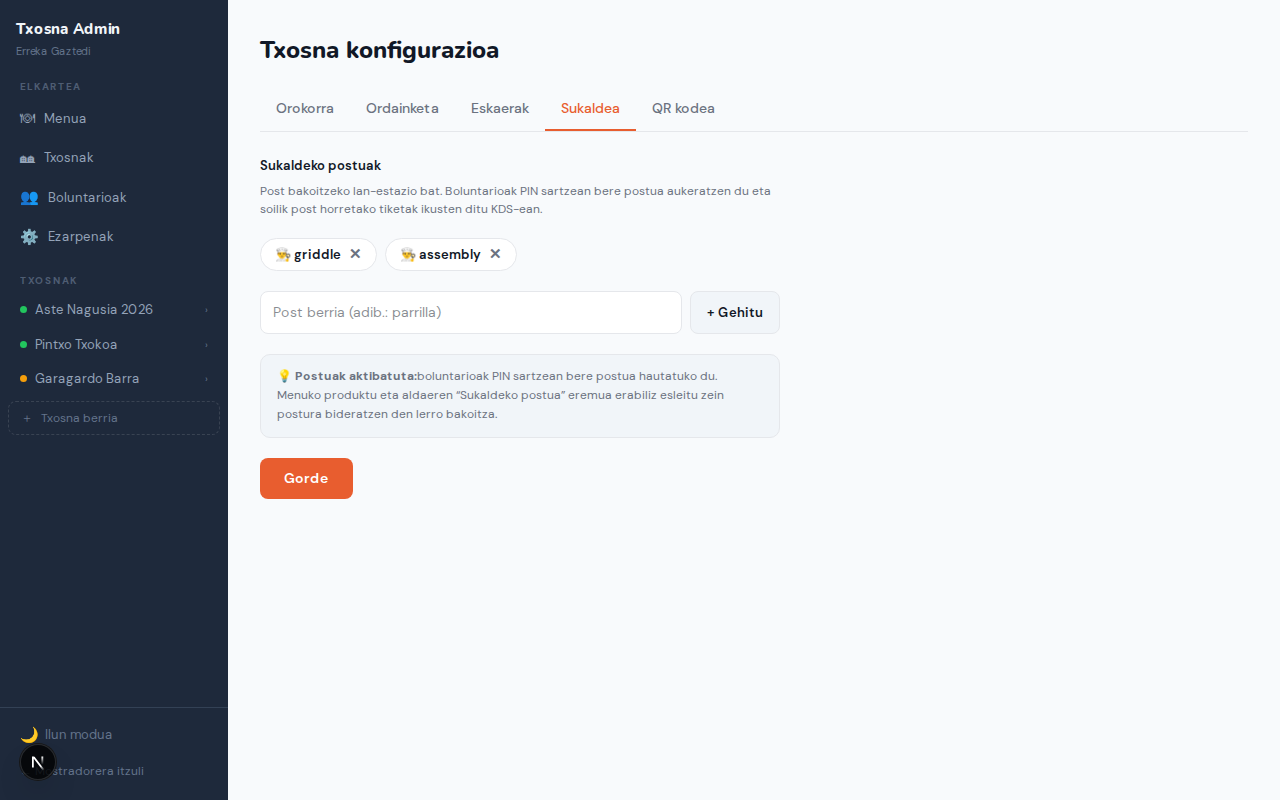
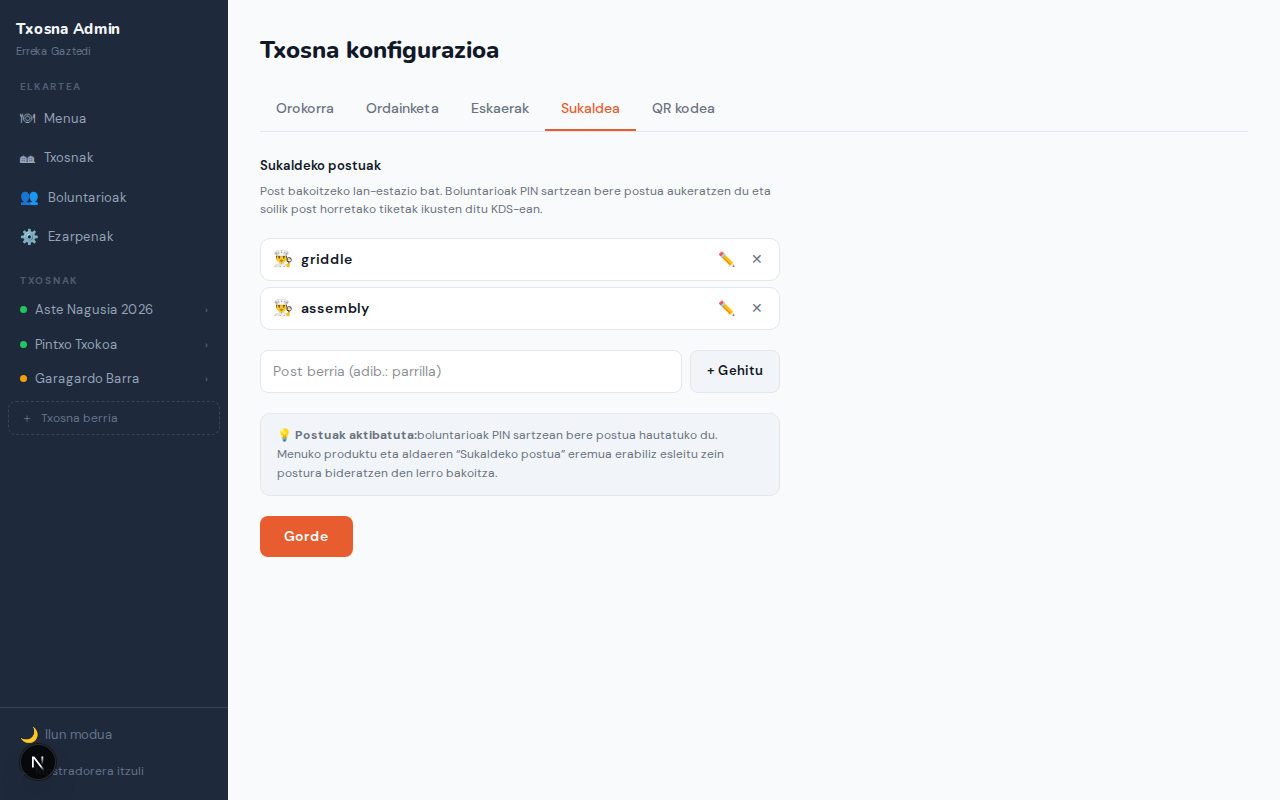
feat: full CRUD UI for kitchen posts in Sukaldea settings tab
Replace chip-based add/delete UI with an explicit list where each post
row has an inline rename button (✏) and delete (✕). Edit mode shows
an input with confirm/cancel controls. Also update screenshots 34 and 35.

https://claude.ai/code/session_01Wv7WWLAdAwRFTa5hydBW3t

diff --git a/src/app/(admin)/[locale]/txosna/page.tsx b/src/app/(admin)/[locale]/txosna/page.tsx
@@ -601,6 +601,8 @@ function QrTab() {
 // ── Tab 4: Kitchen Posts ──────────────────────────────────────────────────────
 function KitchenTab({ slug }: { slug: string | null }) {
   const [posts, setPosts] = React.useState<string[]>([]);
+  const [editingIdx, setEditingIdx] = React.useState<number | null>(null);
+  const [editValue, setEditValue] = React.useState('');
   const [newPost, setNewPost] = React.useState('');
   const [saved, setSaved] = React.useState(false);
 
@@ -621,7 +623,26 @@ function KitchenTab({ slug }: { slug: string | null }) {
     setNewPost('');
   };
 
-  const removePost = (i: number) => setPosts((prev) => prev.filter((_, j) => j !== i));
+  const startEdit = (i: number) => {
+    setEditingIdx(i);
+    setEditValue(posts[i]);
+  };
+
+  const confirmEdit = () => {
+    if (editingIdx === null) return;
+    const trimmed = editValue.trim();
+    if (!trimmed) {
+      setEditingIdx(null);
+      return;
+    }
+    setPosts((prev) => prev.map((p, j) => (j === editingIdx ? trimmed : p)));
+    setEditingIdx(null);
+  };
+
+  const removePost = (i: number) => {
+    if (editingIdx === i) setEditingIdx(null);
+    setPosts((prev) => prev.filter((_, j) => j !== i));
+  };
 
   const handleSave = () => {
     if (!slug) return;
@@ -634,6 +655,25 @@ function KitchenTab({ slug }: { slug: string | null }) {
     setTimeout(() => setSaved(false), 2000);
   };
 
+  const rowStyle: React.CSSProperties = {
+    display: 'flex',
+    alignItems: 'center',
+    gap: 8,
+    padding: '10px 12px',
+    background: 'var(--adm-surface)',
+    border: '1px solid var(--adm-border)',
+    borderRadius: 10,
+  };
+  const iconBtnStyle: React.CSSProperties = {
+    background: 'none',
+    border: 'none',
+    cursor: 'pointer',
+    color: 'var(--adm-text-sec)',
+    fontSize: 14,
+    padding: '0 4px',
+    lineHeight: 1,
+  };
+
   return (
     <div style={{ maxWidth: 520, display: 'flex', flexDirection: 'column', gap: 20 }}>
       <div>
@@ -644,43 +684,69 @@ function KitchenTab({ slug }: { slug: string | null }) {
         </FormHint>
       </div>
 
-      <div style={{ display: 'flex', flexWrap: 'wrap', gap: 8 }}>
+      <div style={{ display: 'flex', flexDirection: 'column', gap: 6 }}>
         {posts.length === 0 && (
-          <div style={{ fontSize: 13, color: 'var(--adm-text-sec)', fontStyle: 'italic' }}>
+          <div
+            style={{
+              fontSize: 13,
+              color: 'var(--adm-text-sec)',
+              fontStyle: 'italic',
+              padding: '4px 0',
+            }}
+          >
             Ez dago posturik — sukaldea estazio bakarrekoa da.
           </div>
         )}
         {posts.map((p, i) => (
-          <div
-            key={p}
-            style={{
-              display: 'flex',
-              alignItems: 'center',
-              gap: 6,
-              padding: '6px 12px 6px 14px',
-              background: 'var(--adm-surface)',
-              border: '1px solid var(--adm-border)',
-              borderRadius: 99,
-              fontSize: 13,
-              fontWeight: 600,
-              color: 'var(--adm-text-pri)',
-            }}
-          >
-            <span>👨🍳 {p}</span>
-            <button
-              onClick={() => removePost(i)}
-              style={{
-                background: 'none',
-                border: 'none',
-                cursor: 'pointer',
-                color: 'var(--adm-text-sec)',
-                fontSize: 15,
-                padding: '0 2px',
-                lineHeight: 1,
-              }}
-            >
-              ✕
-            </button>
+          <div key={i} style={rowStyle}>
+            <span style={{ fontSize: 16, lineHeight: 1 }}>👨🍳</span>
+            {editingIdx === i ? (
+              <>
+                <input
+                  autoFocus
+                  value={editValue}
+                  onChange={(e) => setEditValue(e.target.value)}
+                  onKeyDown={(e) => {
+                    if (e.key === 'Enter') confirmEdit();
+                    if (e.key === 'Escape') setEditingIdx(null);
+                  }}
+                  style={{
+                    flex: 1,
+                    padding: '4px 8px',
+                    borderRadius: 6,
+                    border: '1px solid var(--adm-accent)',
+                    background: 'var(--adm-surface)',
+                    color: 'var(--adm-text-pri)',
+                    fontSize: 14,
+                    outline: 'none',
+                  }}
+                />
+                <button
+                  onClick={confirmEdit}
+                  style={{ ...iconBtnStyle, color: 'var(--ops-green, #22c55e)', fontSize: 16 }}
+                  title="Baieztatu"
+                >
+                  ✓
+                </button>
+                <button onClick={() => setEditingIdx(null)} style={iconBtnStyle} title="Utzi">
+                  ✕
+                </button>
+              </>
+            ) : (
+              <>
+                <span
+                  style={{ flex: 1, fontSize: 14, fontWeight: 600, color: 'var(--adm-text-pri)' }}
+                >
+                  {p}
+                </span>
+                <button onClick={() => startEdit(i)} style={iconBtnStyle} title="Aldatu izena">
+                  ✏
+                </button>
+                <button onClick={() => removePost(i)} style={iconBtnStyle} title="Ezabatu">
+                  ✕
+                </button>
+              </>
+            )}
           </div>
         ))}
       </div>
